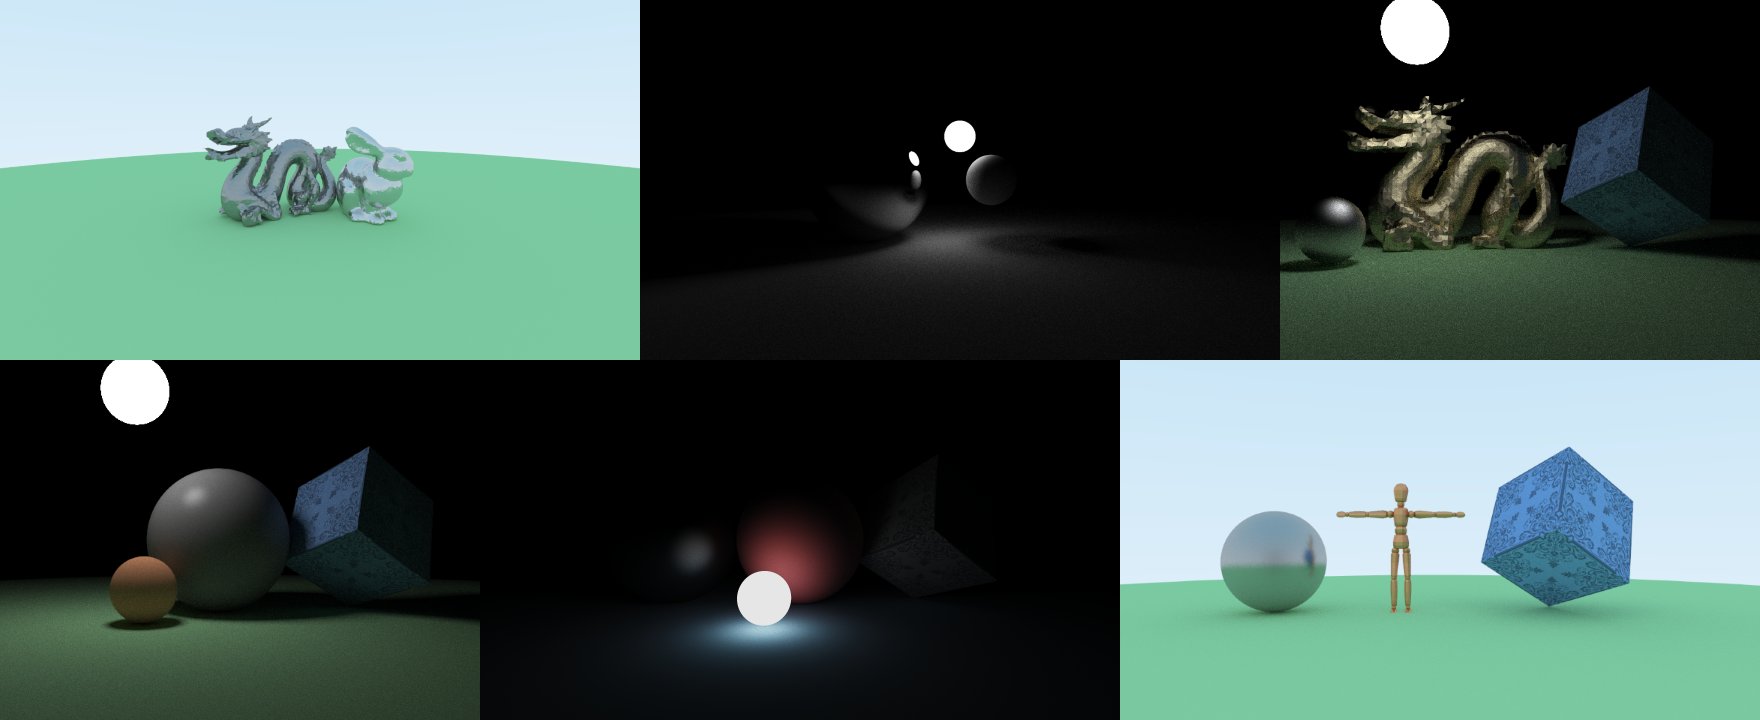
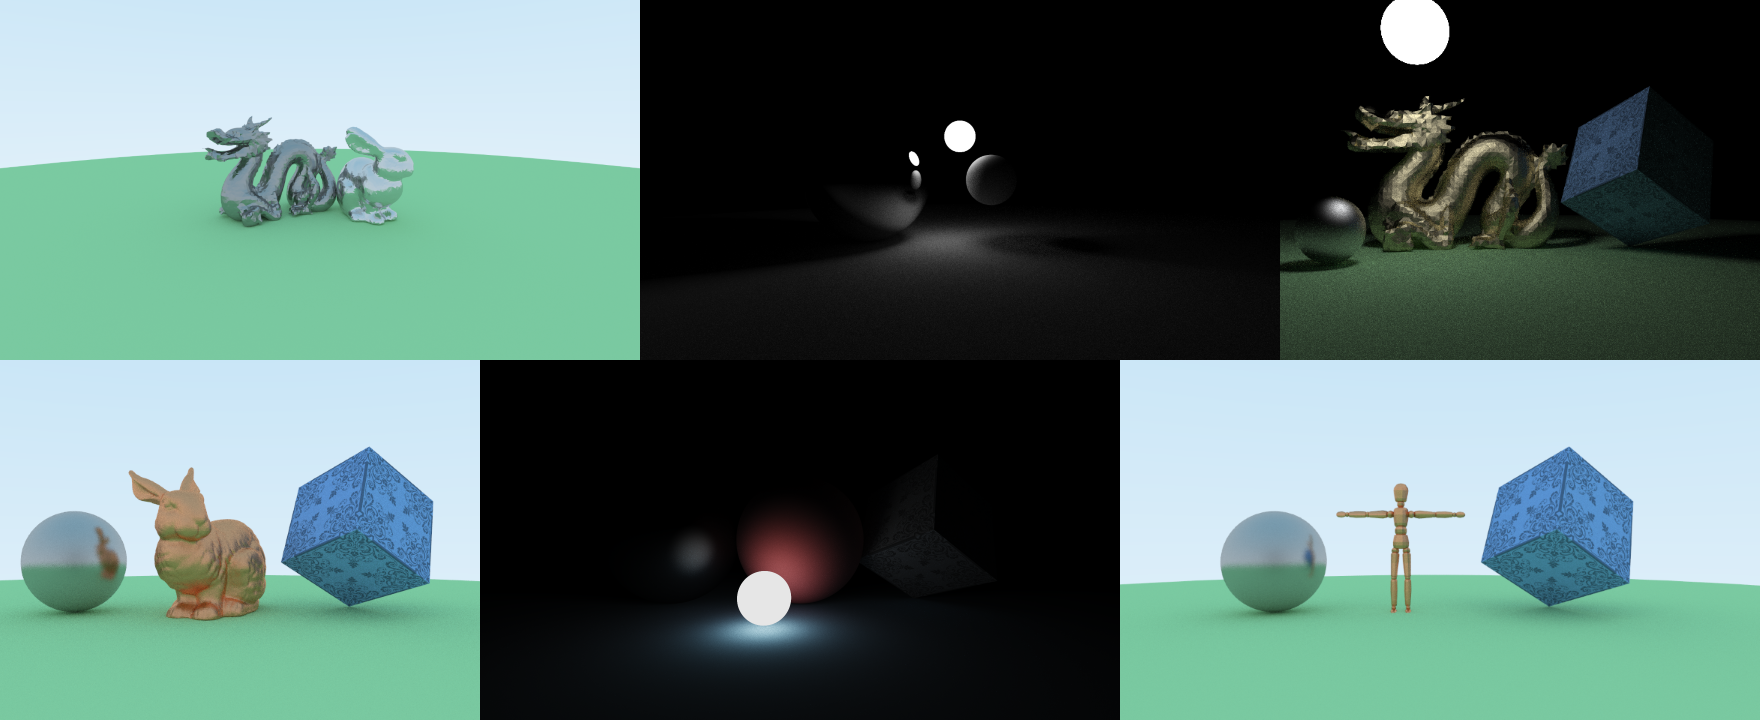
Update Gallery

Changed region(s): [[0.0, 0.4889, 0.2812, 1.0]]

diff --git a/LOG.md b/LOG.md
@@ -62,3 +62,7 @@ wi和wo混乱不堪，面对非对称BSDF太烧脑
 尽管如此，还是死怼了一番性能，大幅优化了BVH求交速度——其实就是消除了关键路径上的一个分支，效果好得出乎我的意料了——即使是在profiler的帮助下，你永远也想不到代码的性能瓶颈在哪。
 
 Wait，说好的介质渲染呢？我白天推导了一番带介质的path tracer的估计量，只是还没动手写代码。
+
+## 2018.11.3
+
+今天比较失败。想用SSE/AVX加速BVH，然后喜闻乐见地负优化了。唯一的“进度”是画了张最高精度的Stanford Bunny（之前画的都是低模）。
